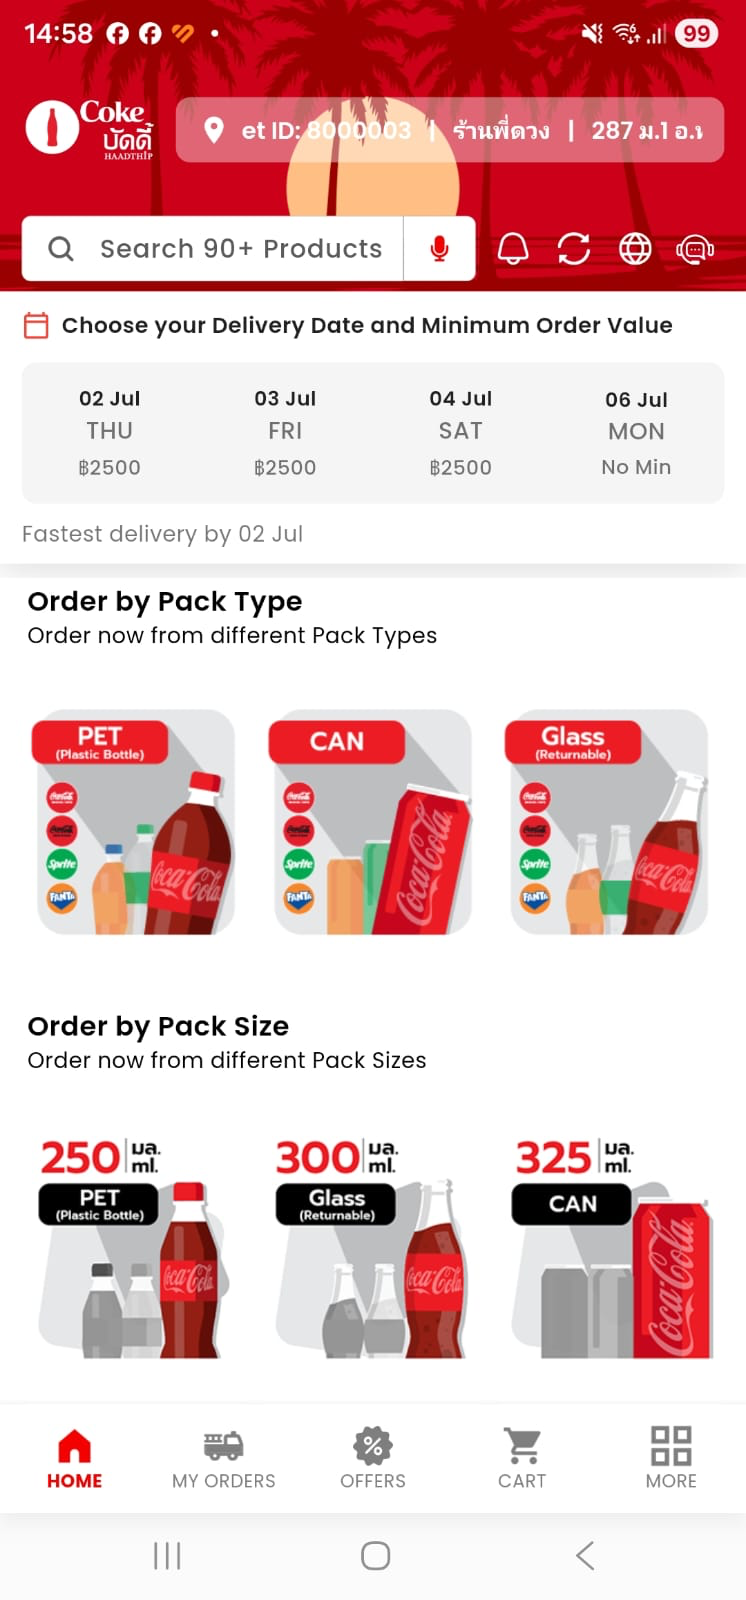
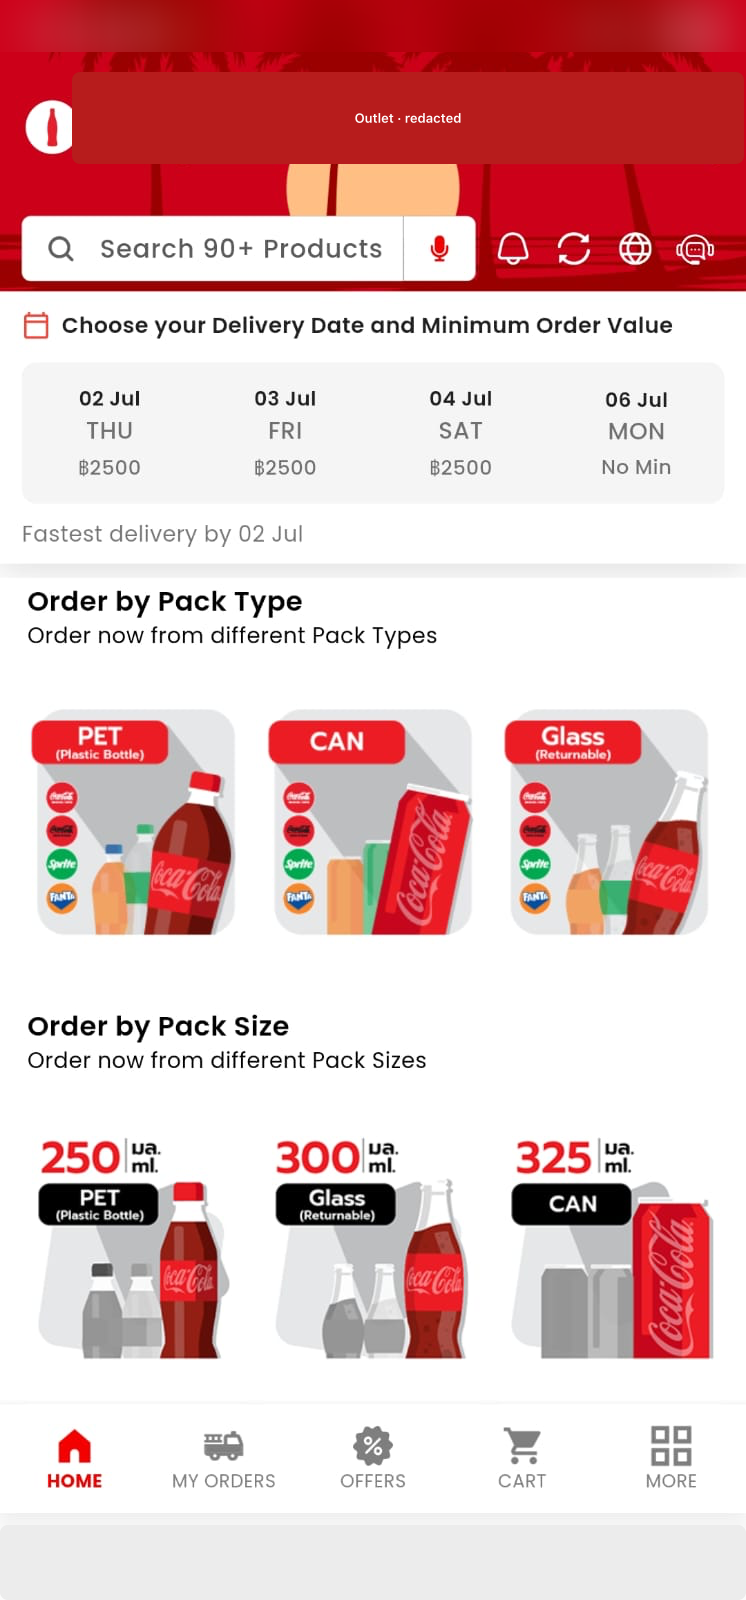
Add redacted Coke Buddy product browse shot for Salescode.
Mask outlet ID, Thai store name, address, status bar and system nav; keep catalog UI. Replace prior unredacted salescode-coke-buddy.png in repo.

Changed region(s): [[0.0308, 0.0, 1.0, 0.125]]

diff --git a/lib/prototype-data.ts b/lib/prototype-data.ts
@@ -56,20 +56,22 @@ export const CASES: CaseStudy[] = [
       "Integrations on the Salescode platform: REST, Kafka-based flows, SQL validation and reconciliation, source-to-destination mapping, delta sync, scheduled jobs, customer-specific transformation.",
       "SIT and UAT coordination, Postman, SQL validation, defect triage, go-live, hypercare, CloudWatch and application logs, runbooks, SOPs, knowledge transfer.",
       "SCAI application layer: conversation flows, call outcomes and qualification, guardrails, section-wise RAG chunking, retrieval context, writeback. I did not build the speech stack or the models.",
+      "Coke Buddy retailer UX: delivery MOQ calendar, catalog search, and pack-type / pack-size lanes — portfolio shot with outlet identifiers removed.",
     ],
     did: [
       "Discovery with client leadership, business, sales and operations — existing and target workflows, implementation plans, dependencies, field mappings, transformation rules and validation scenarios. Onsite in Thailand.",
       "Integrations on the Salescode platform: REST, Kafka-based flows, SQL validation and reconciliation, source-to-destination mapping, delta sync, scheduled jobs, customer-specific transformation.",
       "SIT and UAT coordination, Postman, SQL validation, defect triage, go-live, hypercare, CloudWatch and application logs, runbooks, SOPs, knowledge transfer.",
       "SCAI application layer: conversation flows, call outcomes and qualification, guardrails, section-wise RAG chunking, retrieval context, writeback. I did not build the speech stack or the models.",
+      "Coke Buddy retailer UX: delivery MOQ calendar, catalog search, and pack-type / pack-size lanes — portfolio shot with outlet identifiers removed.",
     ],
     stack: ["REST", "Kafka (platform bus)", "SQL", "Postman", "CloudWatch", "SCAI application layer"],
     outcome:
       "Production rollouts reached go-live across three countries, with field and back-office teams working on the platform. No percentage claims here — none is tied to a single implementation on this page.",
     tags: ["SQL", "REST", "Kafka", "SCAI", "RAG", "UAT"],
-    shots: [{ src: "/shots/salescode-coke-buddy.png", label: "Coke Buddy · Thailand" }],
-    shot: "/shots/salescode-coke-buddy.png",
-    shotLabel: "Coke Buddy · Thailand",
+    shots: [{ src: "/shots/salescode-coke-buddy-products-web.png", label: "Coke Buddy · product browse (redacted)" }],
+    shot: "/shots/salescode-coke-buddy-products-web.png",
+    shotLabel: "Coke Buddy · product browse",
     diagram: "integration",
     showScaiLayer: true,
     flagship: true,

diff --git a/lib/site-content.ts b/lib/site-content.ts
@@ -298,7 +298,7 @@ export const cases: CaseStudy[] = [
     outcome: "Live across three countries, with field-sales and back-office systems finally speaking the same language.",
     tags: ["SQL", "REST", "Kafka", "Postman", "Jira", "Confluence"],
     shotLabel: "Coke Buddy · Thailand",
-    shot: "/shots/salescode-coke-buddy.png",
+    shot: "/shots/salescode-coke-buddy-products-web.png",
   },
   {
     id: "integration",

diff --git a/content/work/salescode.md b/content/work/salescode.md
@@ -101,8 +101,10 @@ REST · Kafka (platform bus) · SQL · Postman · CloudWatch · SCAI application
 
 Production rollouts reached go-live across three countries, with field and back-office teams working on the platform. Percentage reductions in manual intervention are **not published here** until a figure is tied to one implementation.
 
-## The field surface
+## Field surface — product browse
 
-![Coke Buddy field-sales screen from Thailand rollout](/shots/salescode-coke-buddy.png)
+![Coke Buddy product browse — Thailand bottler rollout](/shots/salescode-coke-buddy-products-web.png)
 
-*Coke Buddy — the field-rep surface in a bottler retail-execution rollout.*
+*Coke Buddy — delivery windows, search, and pack-type / pack-size entry. Outlet ID, store name and address masked; status bar and system nav stripped for the portfolio.*
+
+Same capture at full resolution: `/shots/salescode-coke-buddy-products.png` (redacted).

diff --git a/public/docs/salescode.md b/public/docs/salescode.md
@@ -101,8 +101,10 @@ REST · Kafka (platform bus) · SQL · Postman · CloudWatch · SCAI application
 
 Production rollouts reached go-live across three countries, with field and back-office teams working on the platform. Percentage reductions in manual intervention are **not published here** until a figure is tied to one implementation.
 
-## The field surface
+## Field surface — product browse
 
-![Coke Buddy field-sales screen from Thailand rollout](/shots/salescode-coke-buddy.png)
+![Coke Buddy product browse — Thailand bottler rollout](/shots/salescode-coke-buddy-products-web.png)
 
-*Coke Buddy — the field-rep surface in a bottler retail-execution rollout.*
+*Coke Buddy — delivery windows, search, and pack-type / pack-size entry. Outlet ID, store name and address masked; status bar and system nav stripped for the portfolio.*
+
+Same capture at full resolution: `/shots/salescode-coke-buddy-products.png` (redacted).
